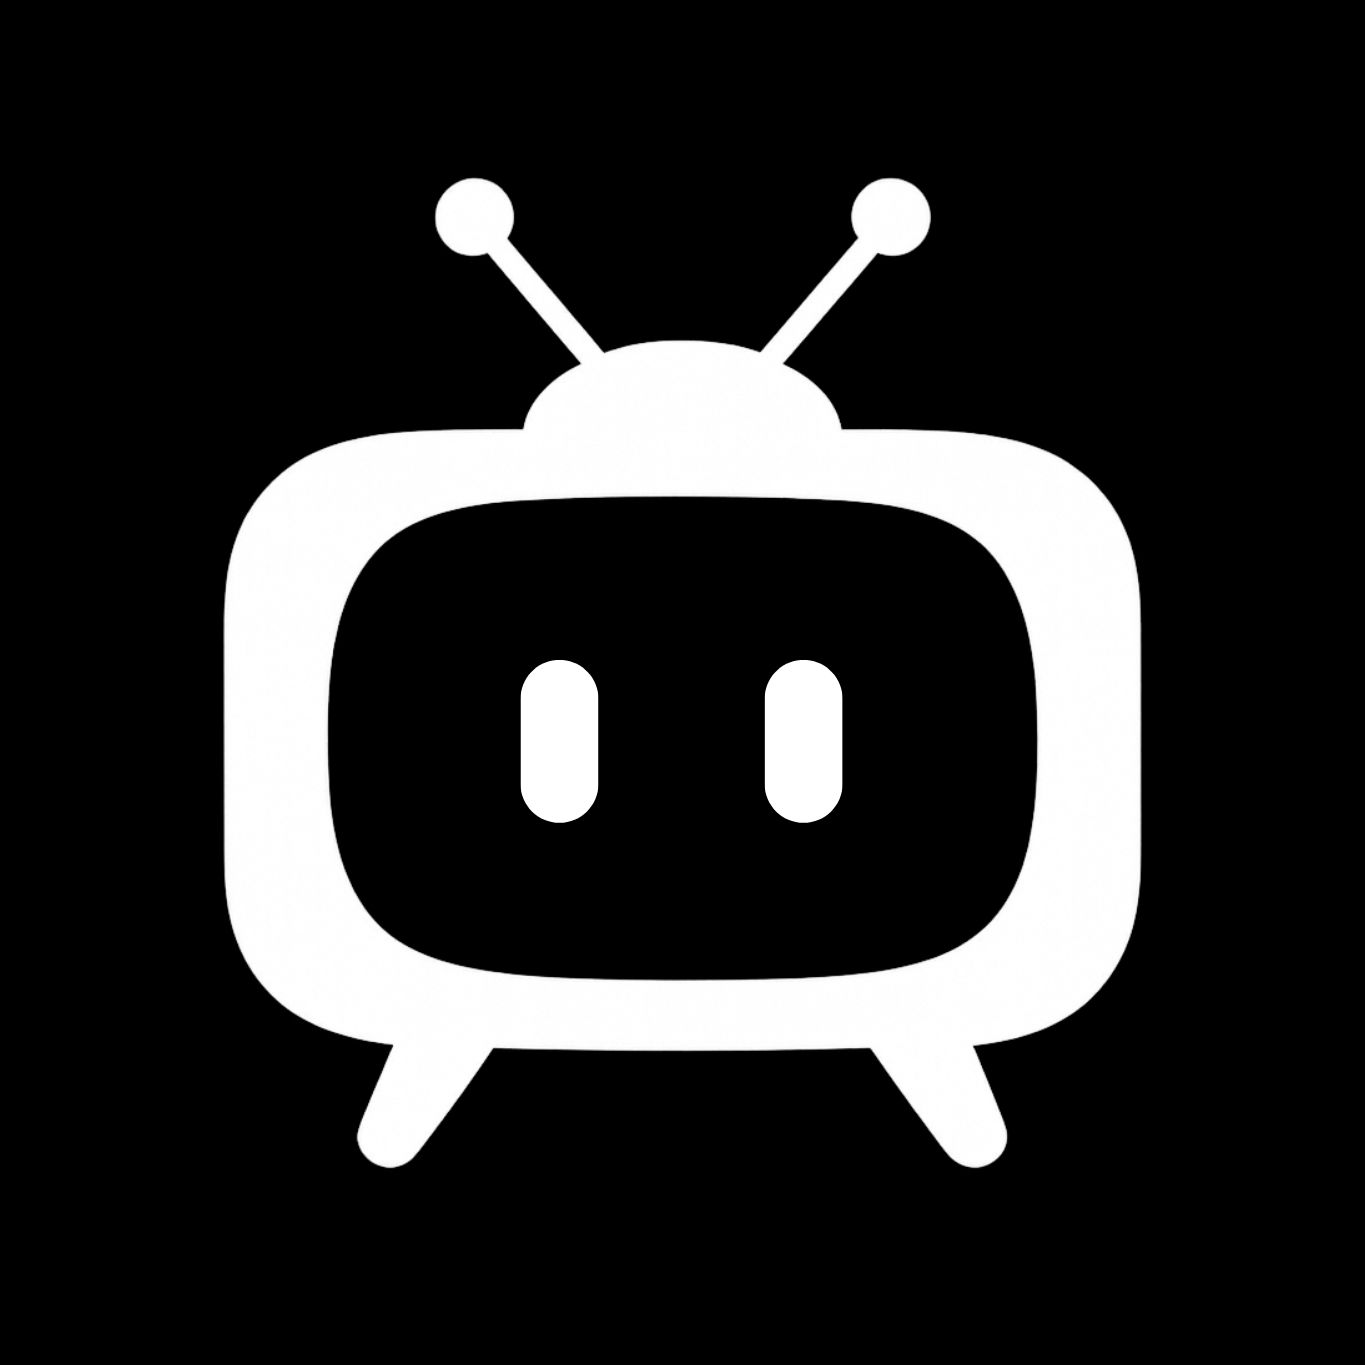
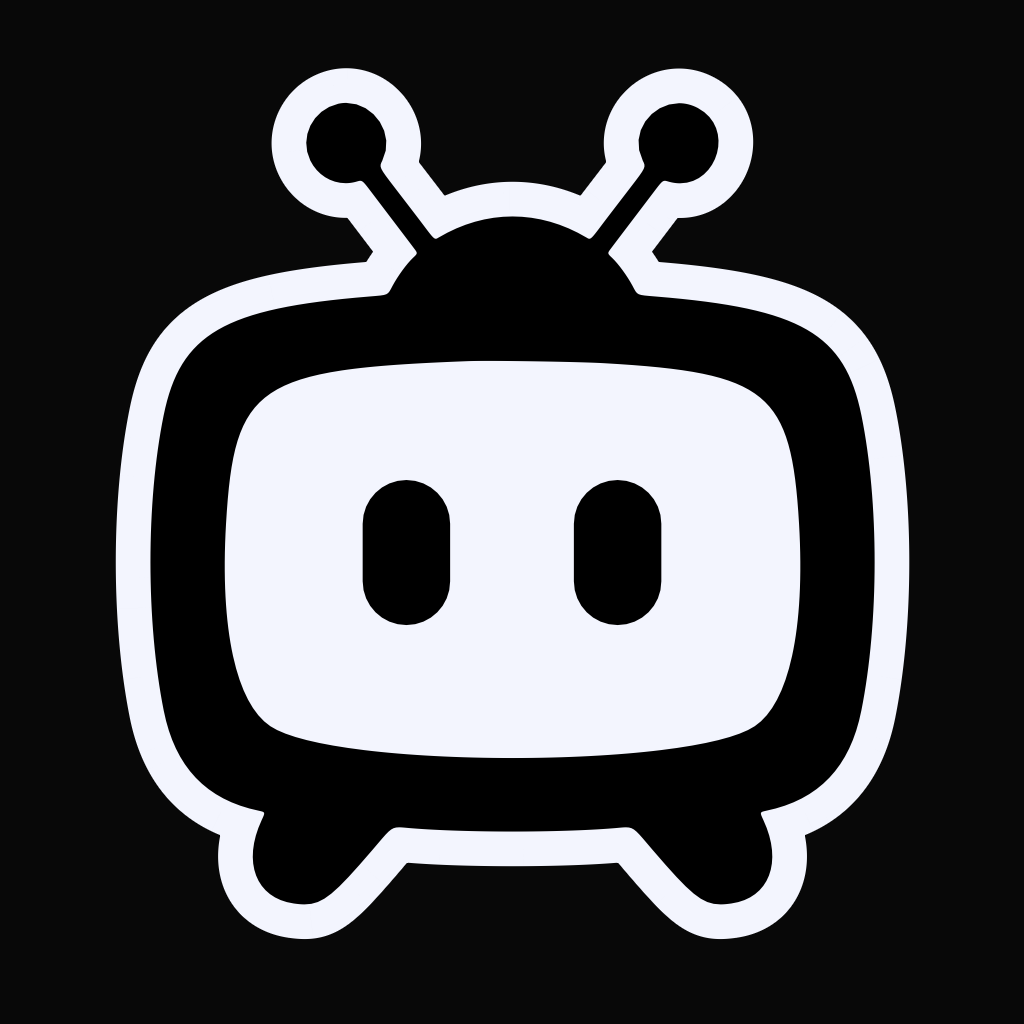
Update app configuration and splash screen settings
- Removed the old splash screen configuration and replaced it with a new setup using the expo-splash-screen plugin, including a custom splash image and background color.
- Configured splash screen animation options to enhance user experience during app launch.
- Deleted outdated icon assets to streamline the asset management.

These changes improve the app's initial loading experience and maintain a cleaner asset directory.

diff --git a/app/_layout.tsx b/app/_layout.tsx
@@ -42,6 +42,12 @@ configureReanimatedLogger({
   strict: false,
 });
 
+// Configure splash screen animation options
+SplashScreen.setOptions({
+  duration: 400,
+  fade: true,
+});
+
 // Prevent the splash screen from auto-hiding before we're ready
 SplashScreen.preventAutoHideAsync();
 
